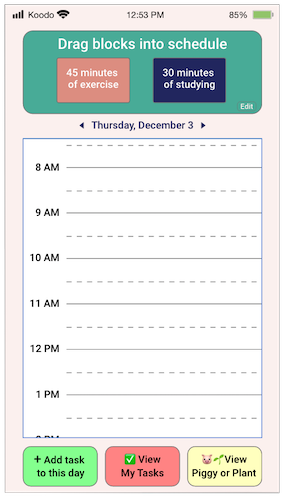
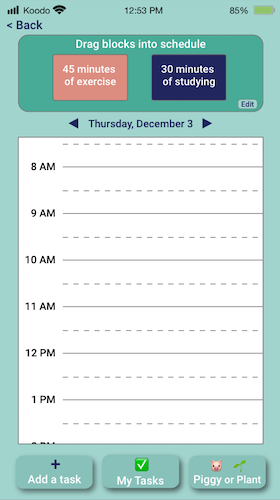
New Text and Images & Fixed Contact Form

diff --git a/css/index.css b/css/index.css
@@ -24,6 +24,7 @@
  
  h3{
     text-align: center;
+    font-size: 1.5em;
  }
  
  h2{
@@ -35,7 +36,6 @@
 
  h4{
      text-decoration: underline;
-     padding: 6px;
      font-size: 1.5em;
  }
  
@@ -208,4 +208,43 @@ footer{
 .coatproject{
     text-align: justify;
     overflow: auto;
+}
+
+.citation, .citation:hover{
+    color: black;
+    text-decoration: none;
+}
+
+.TaskApp{
+    margin-left: auto;
+    margin-right: auto;
+    text-align: center;
+}
+
+img.Task{
+    display: inline;
+    height: auto;
+    max-width: 30%;
+    min-width: 20%;
+    padding: 1%;
+     margin-left: auto;
+     margin-right: auto;
+}
+
+img.BoxSide{
+    display: inline;
+    height: auto;
+    max-width: 40%;
+    min-width: 30%;
+    padding: 0.5%;
+     margin-left: auto;
+     margin-right: auto;
+}
+img.TherapyBox{
+    display: inline;
+    height: auto;
+    max-width: 25%;
+    min-width: 20%;
+     margin-left: auto;
+     margin-right: auto;
 }

diff --git a/js/index.js b/js/index.js
@@ -7,7 +7,7 @@ import aItems from "../items/index.js";
 class Page {
     constructor(){
         this.sName = "JADON KAM";
-        this.sUrlToEmailer = "https://dry-bayou-18746.herokuapp.com/send/";
+        this.sUrlToEmailer = "https://floating-dawn-52629.herokuapp.com/send/";
         const sBase = document.location.pathname;
         if(sBase[sBase.length - 1] == "/"){
             this.sBase = sBase.substr(0, sBase.length -1);

diff --git a/items/item2.md b/items/item2.md
@@ -1,17 +1,38 @@
 ## Task.do
 
-#### A planning app that motivates you to finish your plans and take care of a virtual pig/plant
-
-This app was the result of my group's interest in learning more about the daily lives of post-secondary students. We started with interviewing some students who attend a university or college and asked them questions related to their daily tasks, school work, physical health, mental health, hobbies, and more. Through our interviews, we gained research which we used to create an empathy map and persona to understand our user group better. Through understanding and analyzing our users, we discovered that a common problem that post-secondary students faced was procrastination with finishing their school work resulting in an unproductive day. This was because of reasons such as a lack of motivation, a lack of interest in the work, not planning their day well, and more. To solve this problem we created the app "Task.do".
-
+### A planning app that motivates you to finish your plans and take care of a virtual pig/plant
+<br />
+This app was the result of my group's interest in learning more about the daily lives of post-secondary students. We started with interviewing some students who attend a university or college and asked them questions related to their daily tasks, school work, physical health, mental health, hobbies, and more. Through our interviews, we gained research which we used to create an empathy map and persona to understand our user group better. Through understanding and analyzing our users, we discovered that a common problem that post-secondary students faced was procrastination in finishing their school work, which results in an unproductive day. This was because of reasons such as a lack of motivation, a lack of interest in the work, not planning their day well, and more. To solve this problem we created the app "Task.do".
+<br /><br />
 <u>How to Use the App</u> <br />
 We designed an app that allows users to set daily goals each week that they will complete every day of the week, fill out their schedule with these goals and additional tasks they have to complete on a day, and check these goals on a checklist after they are completed. Setting daily goals each week was one of our solutions to procrastination. For example, a student could set the goal of studying for 30 minutes each day of the week which would prevent them from cramming hours of studying during the few days before a test.
 
 After setting their daily goals, the app would format them as blocks of time. Then, the user would drag and fit these blocks into their schedule and add any other tasks they would have to complete on that day.
-
+<figure class="TaskApp">
+    <figcaption> <b>From left to right: the daily goals page, the schedule page, and the schedule page filled in with the daily goals</b></figcaption>
+        <img src="img/DailyGoals.png" class="Task" alt="The Daily Goals page"/>
+    <img src="img/Schedule.png" class="Task" alt="The Schedule page"/> 
+    <img src="img/ScheduleFilled.png" class="Task" alt="The Schedule page filled in with the daily goals"/> 
+</figure> 
+    <br/>
 The app also features a virtual pig and plant. The user can choose one, and their job is to complete all their tasks to take care of it. The progress bar to the left of the pig/plant represents both how many of their daily tasks the user has completed as well as how much more the pig/plant needs to be fed/watered. As the user completes their daily tasks, the progress bar will go up.
-
-Once the user completes a task, they can check it off of a checklist. Each time the user checks a task, their virtual pig/plant will be fed/watered, and the progress bar will go up. If the user does not complete all their tasks on their checklist, the progress bar will not go all the way up, which means the pig/plant will not be fully fed/watered. The pig/plant may look worse the next day depending on how much the progress bar was filled, and many days of not completing tasks can result in the pig getting sick or the plant dying. This will help motivate the user to complete their tasks every day to keep their virtual pig/plant happy and healthy.
+<br /><br />
+Once the user completes a task, they can check it off of a checklist. Each time the user checks a task, their virtual pig/plant will be fed/watered, and the progress bar will go up. If the user does not complete all their tasks on their checklist, the progress bar will not go all the way up, which means the pig/plant will not be fully fed/watered. The pig/plant may look worse the next day depending on how much the progress bar was filled, and many days of not completing tasks can result in the pig getting sick or the plant dying. This will help motivate the user to complete their tasks every day to keep their virtual pig/plant happy and healthy.<br /><br />
+<figure class="TaskApp">
+    <figcaption> <b>From left to right: the pig page, the plant page, and the checklist page</b></figcaption>
+    <img src="img/Pig.png" class="Task" alt="The Pig page"/>
+    <img src="img/Plant.png" class="Task" alt="The Plant page"/> 
+    <img src="img/Tasks.png" class="Task" alt="The Checklist page"/> 
+</figure> 
+    <br/>
 
 <u>The Testing Process</u> <br />
-We first sketched our ideas 
+We first sketched our ideas to create paper prototypes which were tested with users through using the Wizard of Oz testing method. After gathering feedback and making changes, we created a medium-fidelity prototype on Adobe XD. This was tested with users through the method of contextual inquiry to gain information about our users' thoughts and reactions as well as through the method of A/B testing to find what aesthetic the users preferred for the app. After this, we conducted a heuristic evaluation using information from our contextual inquiry and discovered there was a lack of error prevention in our app. We worked on this and improved the app to create the prototype you see here in these pictures.
+<br />
+<br />
+<u>My Angle</u> <br />
+A video of a person who drew faces to motivate themselves to do a better job doing their daily tasks the next day inspired me to suggest that our group explore the topic of "completing daily tasks" for our project (Bartholomeus). I thought that if we could create an app where the user could see how they spent their day the previous day, that might help them do better on the current day. However, this was just an initial assumption. Through user research, our group gained a better understanding on how we could help users with their tasks which did not match my initial assumption. Many users knew that they were unproductive for many days, but that did not motivate them to be more productive. Our group needed to create something that would motivate the users using the information we gained from our research. My role in this project included interviewing someone to research our user group, working together with my group to brainstorm ways we could address the problem, creating the daily goals and schedule pages of the app, and testing the prototypes with users.
+<br />
+<br />
+<u>References</u> <br />
+Bartholomeus, Ellis. “Draw a Face a Day.” <i>Quantified Self</i>, <a class=citation>https://quantifiedself.com/show-and-tell/?project=941</a>. Accessed 12 December 2020.

diff --git a/items/item1.md b/items/item1.md
@@ -1,13 +1,29 @@
 ## 3-in-1 coat
 
-### A parka coat that transforms into a backpack and sleeping bag,<br /> designed to create multi-use aid for the unhoused in cold weather conditions.
+### A parka coat that transforms into a backpack and sleeping bag, designed to create multi-use aid for the unhoused in cold weather conditions.
 <br />
 
-<div class="CoatProject">As the world is struggling with the COVID-19 pandemic, some individuals don’t have the privilege to have a secure environment to quarantine and socially distance themselves; sometimes resulting without shelter — and that is why our design aims to provide the unhoused with better living conditions during this time. 
-Inspired by Khaleel Seivwright, a carpenter who wanted to build and provide shelter for the unhoused in Toronto, we decided that the target users for this product would be the unhoused population.
+<div class="CoatProject">As the world is struggling with the COVID-19 pandemic, having an environment where people can maintain social distance is difficult to find for the unhoused. This results in many of them not being able tp sleep in a shelter and have to sleep outside. Our design aims to provide the unhoused with better living conditions during this time as the weather gets colder. 
+Inspired by Khaleel Seivwright, a carpenter who wanted to build and provide shelter for the unhoused in Toronto, my group decided that the target users for this product would be the unhoused population.
 <br />
 <br />
-The unhoused are particularly vulnerable to severe weather conditions as many struggle to find shelter. In the winter, this vulnerability increases as temperature drops and makes outdoors even more inhabitable. Our project recognizes these struggles and attempts to improve living conditions for the unhoused by providing them with the means to be equipped to handle harsh weather conditions. Using a convertible and portable 3-in-1 design, we solve or improve different pain points that the unhoused population struggles with. The first component of the design, the jacket, is made of thermal clothing to keep the user warm in colder weather. When converted into a sleeping bag, the item provides adequate cover and warmth for sleep. Finally, when the jacket or sleeping bag are not in use, our design is portable enough to carry after being converted into a backpack. 
+<u>Transforming the Coat to a Sleeping Bag</u> <br />
+Our product can be used as a coat, sleeping bag, or backpack. The coat helps keep the user warm in colder weather and can be easily converted into a sleeping bag through folding a flap down. The sleeping bag provides warmth for the user when they go to sleep. The coat and sleeping bag use fabric with heating technology that absorbs the moisture of the user and converts it into warmth.<br /><br />
+<img src="img/SleepingBag.png" class="itemImage" alt="picture showing how to transform the coat to a sleeping bag"/>
 <br />
 <br />
-Metal buckles will be added to both of the coat sleeves and front pockets. By connecting these two buckles, the sleeves will transform into the straps for the backpack. The coat’s zipper will be extended so that it continues on to the hood, allowing the hood to be zipped as well. When the entire coat is zipped, and the coat is flipped upside down, it can be transformed into a backpack. Since the zipper is zipped all the way, there are no holes for anything to fall out of the backpack. Inside the coat, there will be two flaps: one is large and one is small. When the large flap is unfolded, it becomes the bottom of the sleeping bag. When flipped inside out, the large flap turns into an inner pocket for the backpack. The smaller flap has two buttons that will attach to two buttons near the coat’s pockets. This smaller flap will become the flap that closes the backpack. We will also be implementing heat technology into the coat, which would be similar to Uniqlo’s “HEATTECH” thermal apparel.</div>
+<u>Transforming the Sleeping Bag to a Backpack</u> <br />
+When the jacket or sleeping bag are not being used, our design can be converted into a backpack. Flipping the sleeping bag extension inside out, turns it into an inner pocket for the backpack. By connecting the buckles on the sleeves and the coat's pockets, the sleeves will transform into the straps for the backpack. When the entire coat is zipped, and the coat is flipped upside down, it can be transformed into a backpack. Since the zipper is zipped all the way, there are no holes for anything to fall out of the backpack. The hood can then be attached to the back of the coat by buttoning the hood to the back. Once the small flap is buttoned to close the backpack, the backpack is fully transformed
+<br /><br />
+<img src="img/Backpack.png" class="itemImage" alt="picture showing how to transform the sleeping bag to a backpack"/>
+<br />
+<br />
+<u>My Angle</u> <br />
+My individual role was brainstorming of ways we could transform the coat to a sleeping bag and backpack as well as creating the drawings of the 3-in-1 coat and its transformation process. Originally, our team was thinking of the 3 objects being a coat, backpack, and blanket, but I suggested a sleeping bag would be more useful than a blanket. There was a news article that inspired us to choose this topic as it mentioned how Khaleel Seivwright's shelters were being shut down by the city (Jones). I was quite surprised by this as the city says that the shelters' potential fire safety issues are a problem, but they haven't even made an effort to contact Seivwright to inspect his shelters for safety issues. They are also shutting the shelters down when the unhoused need them the most as it is getting cold. This motivated me to think of ways we could help the unhoused and led to the creation of this product which focuses on helping keep the user warm and providing the user with a product they can use in multiple ways since purchasing a separate coat, sleeping bag, and backpack would be expensive. Just like Seivwright's shelters which he says are a temporary aid, I believe our 3-in-1 coat is a temporary aid for now as the city is still thinking of ways to find shelter for the unhoused.
+<br />
+<br />
+<u>References</u> <br />
+Jones, Alexandra  Mae. “City of Toronto Threatens to Remove Tiny Shelters Built to Help the 
+Homeless, Citing Safety Concerns.” <i>CTVNews</i>, CTV News, 25 Nov. 2020, www.ctvnews.ca/canada/city-of-toronto-threatens-to-remove-tiny-shelters-built-to-help-the-homeless-citing-safety-concerns-1.5205109 
+</div>
+<br />

diff --git a/items/item3.md b/items/item3.md
@@ -1,17 +1,31 @@
 ## Therapy Box
 
-#### A therapy box that combines aromatherapy and light therapy
-
-Aromatherapy uses scents from essential oils to make the user feel relaxed. One method that we found would work well for our box was the reed diffuser. 
-These have sticks called reeds which absorb the essential oil mixture they are placed in and diffuse the scent in to the air. 
-Light therapy is especially helpful now in the winter time. As the sun sets earlier, we experience longer periods of darkness which can make some people feel more depressed.
-Through light therapy, a person uses a bright lamp to add longer periods of light to their day, which can greatly improve their mood.
-After our research, we met on Zoom and used its whiteboard to draw and brainstorm ideas about our therapy box.
+### A therapy box that combines aromatherapy and light therapy
+<br />
+Aromatherapy uses scents from essential oils to make the user feel relaxed. One method of aromatherapy that we found would work well for our box was the reed diffuser. These have sticks called reeds which absorb the essential oil mixture they are placed in and diffuse the scent in to the air. Light therapy is especially helpful now in the winter time. As the sun sets earlier, we experience longer periods of darkness which can make some people feel more depressed. Through light therapy, a person uses a bright lamp to add longer periods of light to their day, which can greatly improve their mood.
+After doing research on these methods of therapy, my group met on Zoom and used its whiteboard to draw and brainstorm ideas about our therapy box.
 After coming up with an idea, I used Adobe Illustrator to create some prototypes for our box.
 Our final design was a box where the front side had a light therapy lamp and the box stored a reed diffuser inside of it. 
 Looking at the top view you can see where the reed diffuser would be stored. We wanted the box to be portable around your home so the lamp
 uses a USB port so that you could plug it into an outlet or a power bank if you’re using it in different places.
 The sides of the box have pockets where you could store reeds or a power bank. 
 To make the light accessible for different languages, we included buttons with icons instead of words
-and an adjustable light that can be tilted to accommodate different heights. 
-As this project did not require a physical prototype, our design process stopped after completing these digital drawings. However, I would definitely be interested in turning this design into a reality one day.
+and an adjustable light that can be tilted to accommodate different heights.<br />
+<br />
+<figure class="TaskApp">
+    <figcaption> <b>From left to right: the front of the box, the side of the box with the light being tilted, and the top of the box with the reeds removed</b></figcaption><br />
+    <img src="img/BoxFront.png" class="TherapyBox" alt="The front of the box which is the light therapy lamp"/>
+    <img src="img/BoxSide.png" class="BoxSide" alt="The side of the box with the light being tilted"/> 
+    <img src="img/BoxTop.png" class="TherapyBox" alt="The top of the box with the reeds removed"/> 
+</figure>  
+<br />
+<br />
+<u>My Angle</u> <br />
+Although I wasn't familiar with aromatherapy and light therapy when one of my group members suggested the idea, doing research has shown that it is beneficial to many people. When odours are liked by the user, aromatherapy can positively affect one's mental health (Herz). Although most commonly used for seasonal affective disorder, research has also shown that when people with non-seasonal depression combine light therapy with antidepressants, it can be of great help (Even). Both forms of therapy allow the user to have control, whether that be choosing an essential oil odour that they enjoy or choosing the length of time they want to use the light therapy lamp. As a result, I believe they are good methods of therapy that we can include in our box since they do not require strict limits or procedures. <br />
+My role in this project included brainstorming how to incorporate both forms of therapy into the box, designing the look of the box, and creating the drawings you see on this page.
+<br />
+<br />
+<u>References</u> <br />
+Herz, Rachel S. "Aromatherapy Facts and Fictions: A Scientific Analysis of Olfactory Effects on Mood, Physiology and Behavior." <i>International Journal of Neuroscience</i>, vol. 119, no. 2, 2009, pp. 263-290, <a class=citation>https://doi-org.libproxy.wlu.ca/10.1080/00207450802333953</a>. Accessed 18 Nov. 2020.
+Even, Christian, et al. "Efficacy of light therapy in nonseasonal depression: A systematic review." <i>Journal of Affective Disorders</i>,
+vol. 108, no. 1–2, 2008, pp. 11-23, <a class=citation>https://doi.org/10.1016/j.jad.2007.09.008</a>. Accessed 18 Nov. 2020.

diff --git a/items/item4.md b/items/item4.md
@@ -1,3 +1,10 @@
 ## MyHelpSpace
 
-#### A section on Laurier's MyLearningSpace to help students with different problems
+### A section on Laurier's MyLearningSpace to help students with different problems
+<br />
+This page on the MyLearningSpace website was designed to help second to fourth year students, specifically transfer students, with their questions about Laurier. Through user interviews, we found that most second to fourth year students felt there was less student support compared to their first year; however, they were still able to figure things out. This is because in the first year, many students live in residence and have easy access to dons who they can ask questions to and have access to more orientation events. The biggest problem we found was with transfer students who did not have that first year opportunity and had to figure out many of Laurier's information by themselves. Through user interviews, we found that transfer students and second to fourth year students would both prefer an online resource over an in-person resource, so we created MyHelpSpace.
+On the MyHelpSpace pages, students have easy access to booking appointments for resources like academic advising, information about different academic and social resources, as well as a discussion forum where they can post questions, answer questions, and view other questions and answers.
+<br />
+<br />
+<u>My Angle</u> <br />
+The initial problem we were asked to solve was to investigate whether "sophomore slump" existed at Laurier. "Sophomore slump" refers to the unsatisfied feeling that second year students can get after the novelty of the experience of university starts to diminish. According to the person who gave my group this problem to investigate, it is quite common in the United States. However, when doing research through the online library about "sophomore slump" specifically in Canada, there was no recent research about it which resulted in my group interviewing Laurier students. My role in this project included working together with my group to create questions, interview students, create ideas on how to solve the problem, brainstorming the look of the MyHelpSpace page, and user testing.

diff --git a/pages/about.md b/pages/about.md
@@ -1,3 +1,4 @@
 # About Me
 <div class="About">Hello! I’m Jadon Kam, and I'm currently a student at Wilfrid Laurier University studying User Experience Design. 
-At a young age, I developed an interest of drawing, and as I grew older, this interest developed into a passion for other types of visual art and design. As a result of my love for design and my interest in thinking of ideas and solutions to solve problems, I decided to study UX Design. My goal as a designer is to learn what users desire in a product and to improve or design a better experience for them. I am looking forward to continue to improve my design skills and to collaborate with others in future projects.</div>
+At a young age, I developed an interest of drawing, and as I grew older, this interest developed into a passion for other types of visual art and design. As a result of my love for design and my interest in thinking of ideas and solutions to solve problems, I decided to study UX Design. My goal as a designer is to learn what users desire in a product and to improve or design a better experience for them. I am looking forward to continue to improve my design skills and to collaborate with others in future projects.<br />
+My skills include designing with Adobe Illustrator and Photoshop, creating interactive prototypes with Adobe XD, user research, and user testing.</div>
